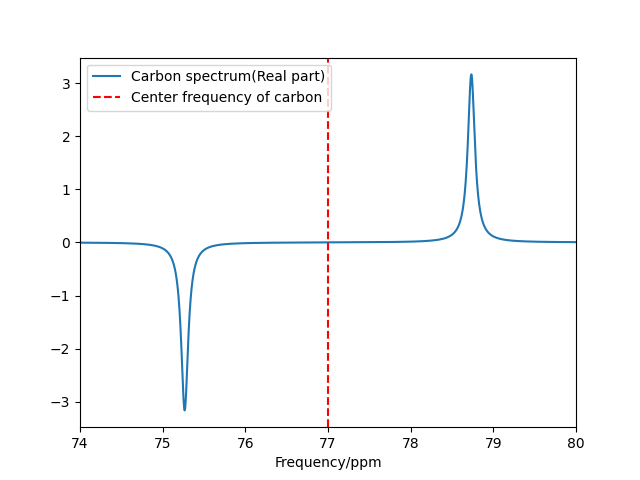
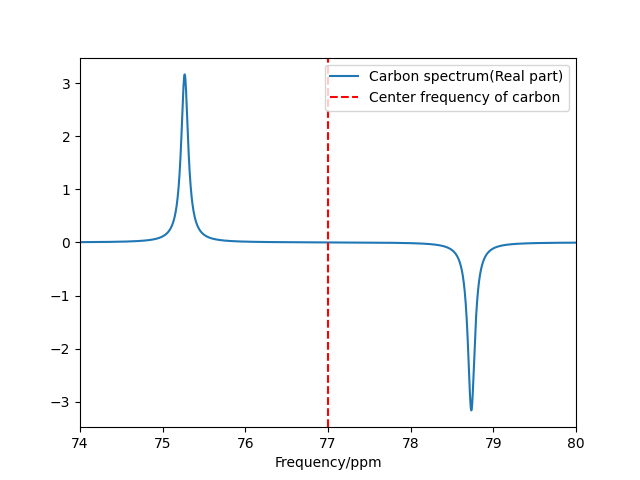
[Feat] Add thermal equibilibrium density matrix

diff --git a/NMRdensity.py b/NMRdensity.py
@@ -84,14 +84,18 @@ class chloroform:
     def get_times(self):
         return self._times
 
-
     '''
     Calculate the thermal equilibrium density density matrix 
     '''
+
     def thermal_equilibrium_density(self):
-        return
+        thermal_density = 1 / 4 * np.identity(4, dtype=complex) + 10 ** (-4) * np.array(
+            [[5, 0, 0, 0], [0, 3, 0, 0], [0, 0, -3, 0], [0, 0, 0, -5]], dtype=complex)
 
+        return thermal_density
 
+    def set_thermal_equilibrium(self):
+        self._density = self.thermal_equilibrium_density()
 
     def reset_proton_params(self,
                             T1p,
@@ -284,7 +288,7 @@ class chloroform:
                       )
         return MC
 
-    def show_proton_fid_real(self, maxtime, store=False, path=None, miny=-1,maxy=1):
+    def show_proton_fid_real(self, maxtime, store=False, path=None, miny=-1, maxy=1):
         plt.plot(self._times, np.real(self._proton_time_domain), label="Proton test_fid.py(Real part)")
         plt.xlim(0, maxtime)
         plt.ylim(miny, maxy)
@@ -294,7 +298,7 @@ class chloroform:
             plt.savefig(path)
         plt.show()
 
-    def show_proton_fid_imag(self, maxtime, store=False, path=None, miny=-1,maxy=1):
+    def show_proton_fid_imag(self, maxtime, store=False, path=None, miny=-1, maxy=1):
         plt.plot(self._times, np.imag(self._proton_time_domain), label="Proton test_fid.py(Imaginary part)")
         plt.xlim(0, maxtime)
         plt.ylim(miny, maxy)
@@ -324,7 +328,7 @@ class chloroform:
             plt.savefig(path)
         plt.show()
 
-    def show_carbon_fid_real(self, maxtime, store=False, path=None, miny=-1,maxy=1):
+    def show_carbon_fid_real(self, maxtime, store=False, path=None, miny=-1, maxy=1):
         plt.plot(self._times, np.real(self._carbon_time_domain), label="Carbon test_fid.py(Real part)")
         plt.xlim(0, maxtime)
         plt.ylim(miny, maxy)
@@ -334,7 +338,7 @@ class chloroform:
             plt.savefig(path)
         plt.show()
 
-    def show_carbon_fid_imag(self, maxtime, store=False, path=None, miny=-1,maxy=1):
+    def show_carbon_fid_imag(self, maxtime, store=False, path=None, miny=-1, maxy=1):
         plt.plot(self._times, np.real(self._carbon_freq_domain), label="Carbon test_fid.py(Imaginary part)")
         plt.xlim(0, maxtime)
         plt.ylim(miny, maxy)

diff --git a/Pulses.py b/Pulses.py
@@ -36,21 +36,21 @@ def Ry_matrix(theta):
 
 def Ry_matrix_first(theta):
     return np.kron(np.array([[np.cos(theta / 2), -1 * np.sin(theta / 2)],
-                             [np.sin(theta / 2), np.cos(theta / 2)]],dtype=complex),
+                             [np.sin(theta / 2), np.cos(theta / 2)]], dtype=complex),
                    I_matrix())
 
 
 def Ry_matrix_second(theta):
     return np.kron(I_matrix(),
                    np.array([[np.cos(theta / 2), -1 * np.sin(theta / 2)],
-                             [np.sin(theta / 2), np.cos(theta / 2)]],dtype=complex))
+                             [np.sin(theta / 2), np.cos(theta / 2)]], dtype=complex))
 
 
 def Rzz_matrix(theta):
     return np.array([[np.exp(-1j * theta / 2), 0, 0, 0],
                      [0, np.exp(1j * theta / 2), 0, 0],
                      [0, 0, np.exp(1j * theta / 2), 0],
-                     [0, 0, 0, np.exp(-1j * theta / 2)]],dtype=complex)
+                     [0, 0, 0, np.exp(-1j * theta / 2)]], dtype=complex)
 
 
 class pulse:

diff --git a/example.py b/example.py
@@ -224,10 +224,15 @@ def approx_CNOT():
     '''
     Set the initial density matrix
     '''
+    '''
     NMRsample.set_density(np.array([[0.5, 0, 0, 0],
                                     [0, 0.3, 0, 0],
                                     [0, 0, -0.3, 0],
                                     [0, 0, 0, -0.5]], dtype=complex))
+    '''
+
+
+    NMRsample.set_thermal_equilibrium()
 
     '''
     Add approximate CNOT pulse sequence
@@ -236,7 +241,7 @@ def approx_CNOT():
     '''
     NMRsample.add_pulse(pulseSingle(0, 0.5 * pl90C, wC))
     NMRsample.add_pulse(delayTime(0.5 / Jfreq))
-    NMRsample.add_pulse(pulseSingle(1, 0.5 * pl90C, wC))
+    NMRsample.add_pulse(pulseSingle(3, 0.5 * pl90C, wC))
     '''
     Evolve the density matrix with all pulses
     '''
@@ -721,4 +726,6 @@ if __name__ == "__main__":
     #P1_pulse()
 
     #Xgate_proton()
-    Xgate_carbon()
+    #Xgate_carbon()
+
+    approx_CNOT()
